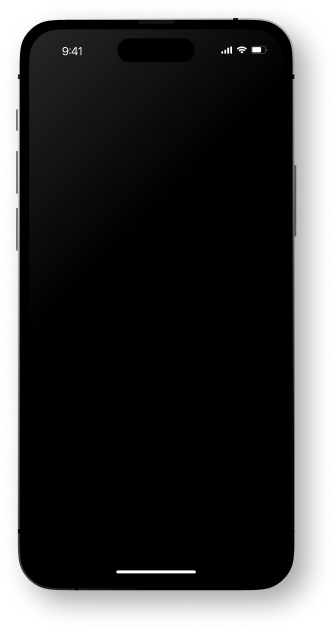
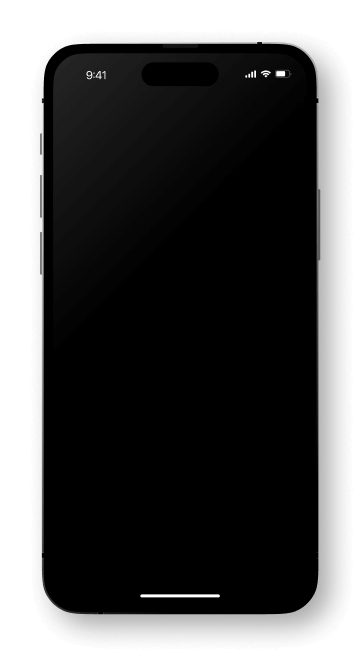
Ajuste mockup do gif

Changed region(s): [[0.0298, 0.0301, 0.9226, 0.962], [0.2083, 0.9019, 0.8036, 0.962]]

diff --git a/pay/index.html b/pay/index.html
@@ -170,13 +170,17 @@
                         </p>
                     </div>
                 </div>
-                <div class="col-md-11 col-lg-6 d-none d-lg-flex justify-content-end mobile">
-                    <img class=" " src="./assets/image/abrir-proposta.gif" alt="" aria-hidden="true">
+                <div class="col-10 col-lg-6 d-flex justify-content-lg-end justify-content-center">
+                    <div class="mobile">
+                        <img class=" " src="./assets/image/abrir-proposta.gif" alt="" aria-hidden="true">
+                    </div>
                 </div>
 
                 <!--Step 02-->
-                <div class="col-md-11 col-lg-6 d-none d-lg-flex">
-                    <img class=" mobile" src="./assets/image/abrir-proposta.gif" alt="" aria-hidden="true">
+                <div class="col-md-11 col-lg-6 d-none d-lg-flex  justify-content-lg-start">
+                    <div class="mobile">
+                        <img class=" " src="./assets/image/abrir-proposta.gif" alt="" aria-hidden="true">
+                    </div>
                 </div>
                 <div class="col-md-11 col-lg-6 card">
                     
@@ -195,8 +199,10 @@
                         para ambas as partes.
                     </p>
                 </div>
-                <div class="col-md-11 col-lg-6 d-flex d-lg-none">
-                    <img class=" mobile" src="./assets/image/abrir-proposta.gif" alt="" aria-hidden="true">
+                <div class="col-10 col-lg-6 d-flex d-lg-none justify-content-center">
+                    <div class="mobile">
+                        <img class=" " src="./assets/image/abrir-proposta.gif" alt="" aria-hidden="true">
+                    </div>
                 </div>
             </div>
             <div class="row justify-content-center">

diff --git a/pay/style.css b/pay/style.css
@@ -211,8 +211,15 @@ header canvas#spline {
   align-items: center;
   color: #fff; }
 .steps .mobile {
-  height: 500px;
-  margin: 50px 0; }
+  background: url("assets/image/mobile.png") center center no-repeat;
+  background-size: cover;
+  padding: 50px 50px;
+  margin: -50px -50px; }
+  .steps .mobile img {
+    height: 500px;
+    width: 230px;
+    border-radius: 20px;
+    object-fit: cover; }
 .steps .tips h4 {
   font-family: 'SF Pro Bold';
   font-size: 18px;

diff --git a/pay/assets/scss/style.scss b/pay/assets/scss/style.scss
@@ -253,8 +253,17 @@ header{
     }
 
     .mobile{
-        height: 500px;
-        margin: 50px 0;
+        background: url("assets/image/mobile.png") center center no-repeat;
+        background-size: cover;
+        padding: 50px 50px;
+        margin: -50px -50px;
+
+        img{
+            height: 500px;
+            width: 230px;
+            border-radius: 20px;
+            object-fit: cover;
+        }
     }
 
     .tips{
